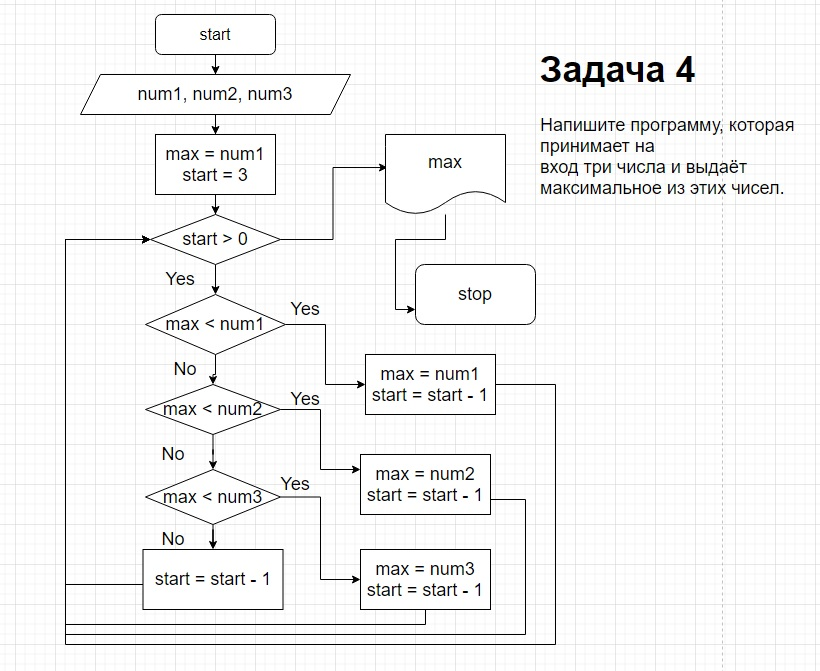
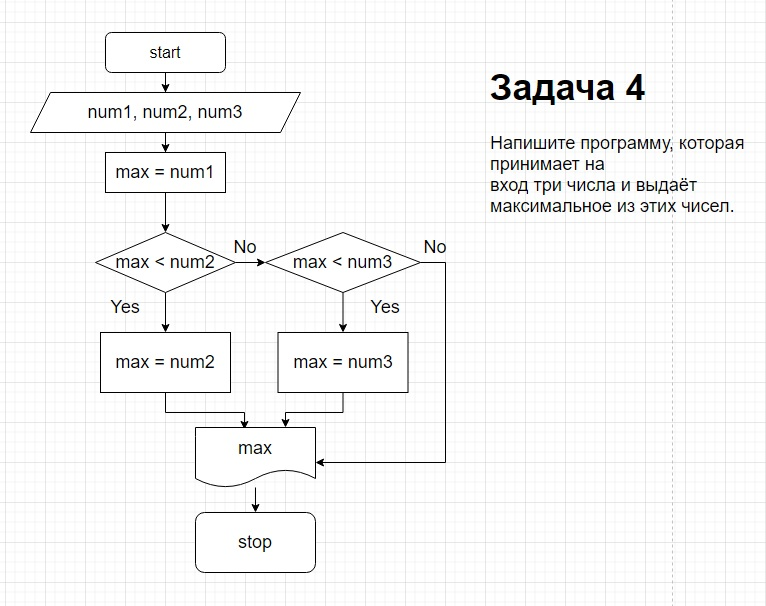
принимает на вход три числа и выдаёт максимальное из этих чисел

diff --git a/task_04/Program.cs b/task_04/Program.cs
@@ -7,29 +7,15 @@ int num2 = Convert.ToInt32(Console.ReadLine());
 Console.Write("Введите число 3: ");
 int num3 = Convert.ToInt32(Console.ReadLine());
 
-int start = 3;
 int max = num1;
 
-while (start > 0)
-
-      if (max < num1)
-      {
-        max = num1;
-        start = start - 1;
-      }
-      else if (max < num2)
+      if (max < num2)
       {
         max = num2;
-        start = start - 1;
       }
-      else if (max < num3)
+      if (max < num3)
       {
         max = num3;
-        start = start - 1;
-      }
-      else 
-      {
-        start = start - 1;
       }
 
 Console.WriteLine("Из трех введенных чисел, максимальное: " + max);
